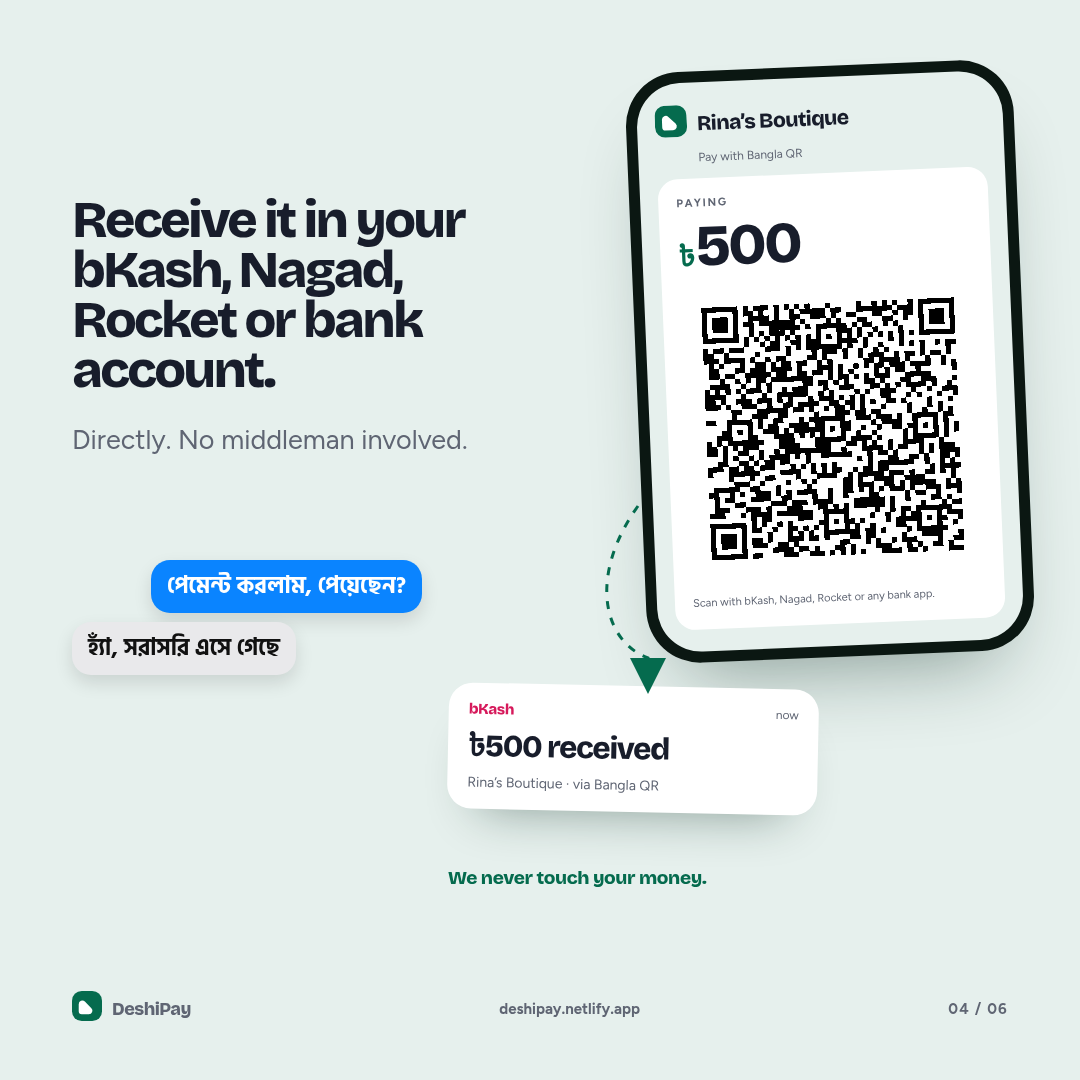
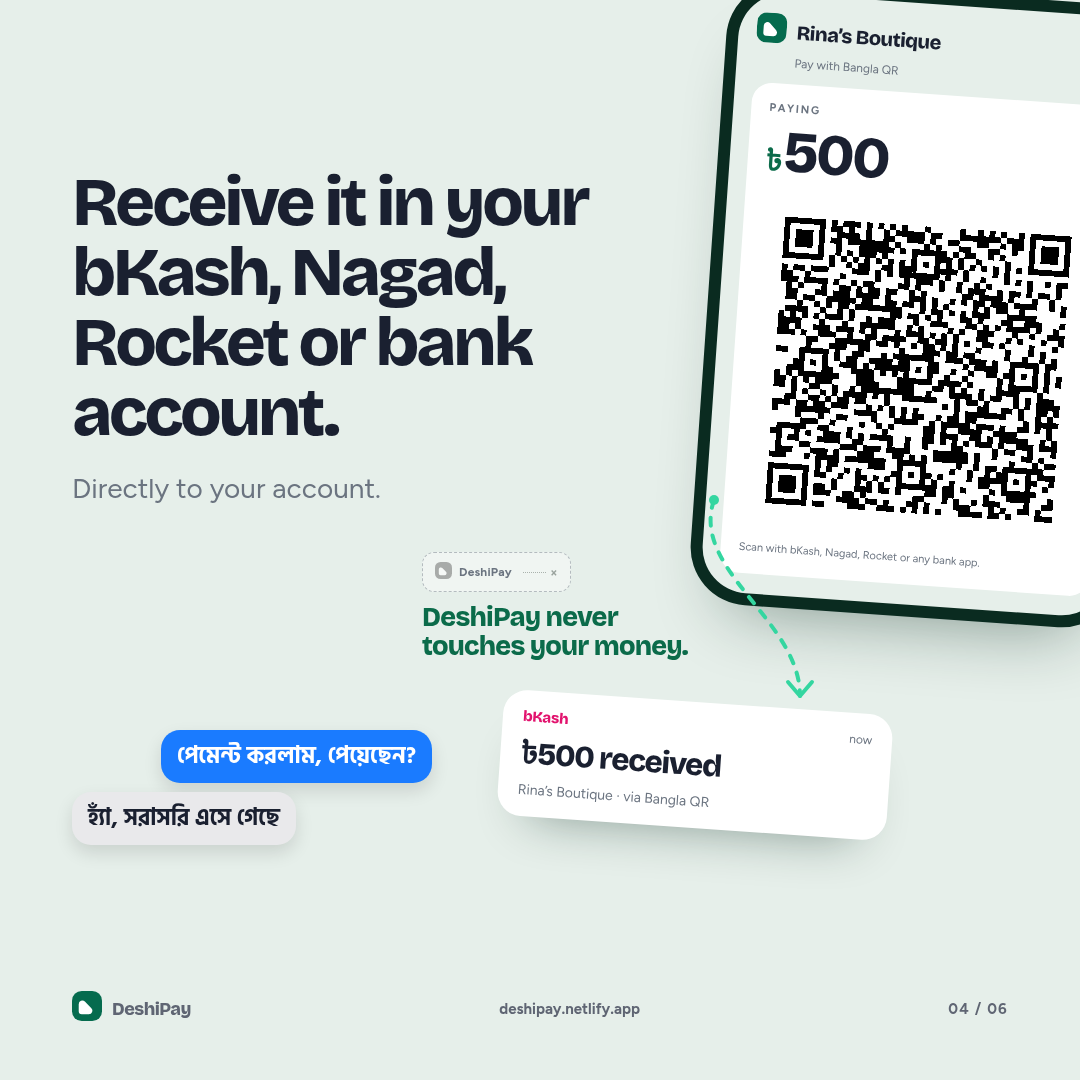
design(page4): dashed bezel arrow, remove instant badge, update stays-out copy

Changed region(s): [[0.0611, 0.0, 1.0, 0.7944], [0.0611, 0.1528, 0.55, 0.4583], [0.3972, 0.7944, 0.6417, 0.825]]

diff --git a/promotionals/social/source/social.html b/promotionals/social/source/social.html
@@ -79,33 +79,39 @@
 
   .s3-ghost { position:absolute; z-index:1; left:-42px; bottom:-128px; color:rgba(230,240,237,.045); font:800 450px/1 "Hind Siliguri","Noto Sans Bengali",sans-serif; letter-spacing:-.08em; pointer-events:none; }
   /* 04 direct receipt */
-  #s4 .headline { font-size:52px; margin-top:124px; max-width:470px; }
-  #s4 .body { margin-top:24px; max-width:420px; font-size:27px; }
+  #s4 { background:#E6EFEA; }
+  #s4 .headline { font-size:68px; line-height:1.03; margin-top:96px; max-width:640px; color:#1A2030; letter-spacing:-.05em; }
+  #s4 .body { margin-top:20px; max-width:430px; font-size:28px; color:#6B7480; }
   #s4 .hairline { display:none; }
-  .s4-visual { position:absolute; z-index:4; right:22px; top:66px; width:610px; height:930px; }
-  .s4-device { position:absolute; right:34px; top:0; width:388px; padding:11px; border-radius:54px; background:#0B1712; transform:rotate(-2.4deg); box-shadow:0 44px 80px -38px rgba(8,42,32,.45); }
-  .s4-screen { border-radius:44px; background:var(--mint); padding:22px 18px; }
-  .shop-head { display:flex; align-items:center; gap:10px; color:var(--ink); font:800 21px "Bricolage Grotesque",Arial,sans-serif; letter-spacing:-.03em; }
-  .shop-head .mark { width:32px; height:32px; flex:none; }
-  .shop-sub { margin:8px 0 0 42px; color:var(--muted); font-size:12px; }
-  .pay-card { background:#fff; border-radius:20px; padding:18px; margin-top:14px; color:var(--ink); }
-  .pay-label { display:block; color:var(--muted); font:800 11px Figtree,sans-serif; letter-spacing:.16em; }
+  .s4-phone { position:absolute; z-index:5; right:-58px; top:-8px; width:430px; padding:12px; border-radius:58px; background:#0A2B20; transform:rotate(4deg); box-shadow:0 40px 70px -40px rgba(10,43,32,.48); }
+  .s4-screen { border-radius:46px; background:#E6EFEA; padding:20px 18px; }
+  .shop-head { display:flex; align-items:center; gap:10px; color:#1A2030; font:800 20px "Bricolage Grotesque",Arial,sans-serif; letter-spacing:-.03em; }
+  .shop-head .mark { width:30px; height:30px; flex:none; }
+  .shop-sub { margin:7px 0 0 40px; color:#6B7480; font-size:12px; }
+  .pay-card { background:#fff; border-radius:20px; padding:18px; margin-top:14px; color:#1A2030; }
+  .pay-label { display:block; color:#6B7480; font:800 11px Figtree,sans-serif; letter-spacing:.16em; }
   .pay-amount { display:flex; align-items:baseline; gap:3px; margin:8px 0 12px; font:800 58px "Bricolage Grotesque",Arial,sans-serif; letter-spacing:-.05em; line-height:1; }
-  .pay-amount span { color:var(--green); font-size:29px; }
-  .s4-device .qrbox { border-radius:0; }
-  .pay-note { margin:10px 0 0; color:var(--muted); font-size:11px; line-height:1.45; }
-  .direct-arrow { position:absolute; z-index:6; inset:0; width:100%; height:100%; overflow:visible; pointer-events:none; }
-  .notif { position:absolute; left:0; top:620px; width:370px; padding:17px 20px 18px; background:#fff; border-radius:24px; box-shadow:0 30px 50px -32px rgba(8,42,32,.45); transform:rotate(1.2deg); }
-  .notif-top { display:flex; align-items:center; justify-content:space-between; }
-  .notif-top b { color:#D6195B; font:800 15px "Bricolage Grotesque",Arial,sans-serif; letter-spacing:-.02em; }
-  .notif-top span { color:var(--muted); font-size:12px; }
-  .notif-amount { margin-top:9px; color:var(--ink); font:800 31px "Bricolage Grotesque",Arial,sans-serif; letter-spacing:-.045em; }
-  .notif p { margin:5px 0 0; color:var(--muted); font-size:14px; }
-  .s4-never { position:absolute; left:0; top:800px; color:var(--green); font:800 19px "Bricolage Grotesque",Arial,sans-serif; letter-spacing:-.02em; }
-  .s4-chat { position:absolute; z-index:4; left:72px; top:560px; width:350px; }
+  .pay-amount span { color:#0B6B4A; font-size:29px; }
+  .s4-phone .qrbox { border-radius:0; }
+  .pay-note { margin:10px 0 0; color:#6B7480; font-size:11px; line-height:1.45; }
+  .s4-chat { position:absolute; z-index:6; left:72px; top:730px; width:360px; }
   .s4-msg { width:max-content; max-width:100%; margin:0; padding:11px 16px; border-radius:19px; font-family:"Hind Siliguri","Noto Sans Bengali",sans-serif; font-weight:700; font-size:23px; line-height:1.35; box-shadow:0 8px 18px rgba(0,0,0,.12); }
-  .s4-msg.ask { margin-left:auto; background:#0A84FF; color:#fff; }
-  .s4-msg.answer { margin-top:9px; background:#E9E9EB; color:#111; }
+  .s4-msg.ask { margin-left:auto; background:#1A7BFF; color:#fff; }
+  .s4-msg.answer { margin-top:9px; background:#E9E9EB; color:#1A2030; }
+  .s4-stays { position:absolute; z-index:7; left:422px; top:552px; width:300px; }
+  .s4-tag { display:inline-flex; align-items:center; gap:7px; padding:9px 12px; border:1px dashed rgba(107,116,128,.45); border-radius:12px; background:rgba(255,255,255,.4); color:#6B7480; font:800 12px Figtree,sans-serif; letter-spacing:.02em; }
+  .s4-tag .mark { width:17px; height:17px; opacity:.45; filter:grayscale(1); }
+  .s4-tag b { font:800 12px Figtree,sans-serif; }
+  .s4-tag .tag-cut { display:flex; align-items:center; gap:4px; margin-left:4px; color:#9AA39E; font:700 13px Figtree,sans-serif; }
+  .s4-tag .tag-cut:before { content:""; width:23px; border-top:1px dotted #AAB2AD; }
+  .s4-caption { margin:11px 0 0; color:#0B6B4A; font:800 27px/1.08 "Bricolage Grotesque",Arial,sans-serif; letter-spacing:-.03em; }
+  .s4-notif { position:absolute; z-index:7; left:500px; top:702px; width:390px; padding:17px 20px 18px; background:#fff; border-radius:24px; box-shadow:0 30px 50px -32px rgba(8,42,32,.45); transform:rotate(4deg); }
+  .notif-top { display:flex; align-items:center; justify-content:space-between; }
+  .notif-top b { color:#E2136E; font:800 15px "Bricolage Grotesque",Arial,sans-serif; letter-spacing:-.02em; }
+  .notif-top span { color:#6B7480; font-size:12px; }
+  .notif-amount { margin-top:9px; color:#1A2030; font:800 31px "Bricolage Grotesque",Arial,sans-serif; letter-spacing:-.045em; }
+  .s4-notif p { margin:5px 0 0; color:#6B7480; font-size:14px; }
+  .s4-arrow { position:absolute; z-index:6; inset:0; width:100%; height:100%; pointer-events:none; }
   /* 05 manifesto */
   #s5 .headline { font-size:96px; line-height:1.0; margin-top:118px; max-width:860px; }
   #s5 .body { margin-top:34px; max-width:700px; color:rgba(8,42,32,.72); font-size:31px; }
@@ -149,35 +155,37 @@
     <footer class="footer"><div class="brand"><span data-mark></span>DeshiPay</div><span class="mid">deshipay.netlify.app</span><span class="num">03 / 06</span></footer>
   </section>
 
-  <section class="slide mint" id="s4">
-    <h1 class="headline">Receive it in your bKash, Nagad, Rocket or bank account.</h1>
-    <p class="body">Directly. No middleman involved.</p>
-    <div class="s4-visual">
-      <div class="s4-device"><div class="s4-screen">
-        <div class="shop-head"><span data-mark></span><b>Rina’s Boutique</b></div>
-        <p class="shop-sub">Pay with Bangla QR</p>
-        <div class="pay-card">
-          <span class="pay-label">PAYING</span>
-          <div class="pay-amount"><span>৳</span>500</div>
-          <div class="qrbox" data-qr="pay"></div>
-          <p class="pay-note">Scan with bKash, Nagad, Rocket or any bank app.</p>
-        </div>
-      </div></div>
-      <svg class="direct-arrow" viewBox="0 0 610 930" aria-hidden="true">
-        <defs><marker id="s4-arrow" markerWidth="12" markerHeight="12" refX="8" refY="6" orient="auto"><path d="M0 0 L12 6 L0 12 Z" fill="#056B4E"/></marker></defs>
-        <path d="M 190 440 C 140 510 155 575 200 592 L 200 616" fill="none" stroke="#056B4E" stroke-width="3" stroke-dasharray="8 9" marker-end="url(#s4-arrow)"/>
-      </svg>
-      <div class="notif">
-        <div class="notif-top"><b>bKash</b><span>now</span></div>
-        <div class="notif-amount">৳500 received</div>
-        <p>Rina’s Boutique · via Bangla QR</p>
-      </div>
-      <div class="s4-never">We never touch your money.</div>
-    </div>
+  <section class="slide" id="s4">
+    <h1 class="headline">Receive it in your<br>bKash, Nagad,<br>Rocket or bank<br>account.</h1>
+    <p class="body">Directly to your account.</p>
     <div class="s4-chat" lang="bn">
       <p class="s4-msg ask">পেমেন্ট করলাম, পেয়েছেন?</p>
       <p class="s4-msg answer">হ্যাঁ, সরাসরি এসে গেছে</p>
     </div>
+    <div class="s4-phone"><div class="s4-screen">
+      <div class="shop-head"><span data-mark></span><b>Rina’s Boutique</b></div>
+      <p class="shop-sub">Pay with Bangla QR</p>
+      <div class="pay-card">
+        <span class="pay-label">PAYING</span>
+        <div class="pay-amount"><span>৳</span>500</div>
+        <div class="qrbox" data-qr="pay"></div>
+        <p class="pay-note">Scan with bKash, Nagad, Rocket or any bank app.</p>
+      </div>
+    </div></div>
+    <div class="s4-stays">
+      <div class="s4-tag"><span data-mark></span><b>DeshiPay</b><span class="tag-cut" aria-hidden="true">×</span></div>
+      <p class="s4-caption">DeshiPay never touches your money.</p>
+    </div>
+    <div class="s4-notif">
+      <div class="notif-top"><b>bKash</b><span>now</span></div>
+      <div class="notif-amount">৳500 received</div>
+      <p>Rina’s Boutique · via Bangla QR</p>
+    </div>
+    <svg class="s4-arrow" viewBox="0 0 1080 1080" aria-hidden="true">
+      <path d="M 714 500 C 690 570 800 620 800 696" fill="none" stroke="#34D6A0" stroke-width="4" stroke-linecap="round" stroke-dasharray="8 10"/>
+      <circle cx="714" cy="500" r="5" fill="#34D6A0"/>
+      <path d="M 788 682 L 800 696 L 812 682" fill="none" stroke="#34D6A0" stroke-width="4" stroke-linecap="round" stroke-linejoin="round"/>
+    </svg>
     <footer class="footer"><div class="brand"><span data-mark></span>DeshiPay</div><span class="mid">deshipay.netlify.app</span><span class="num">04 / 06</span></footer>
   </section>
 
